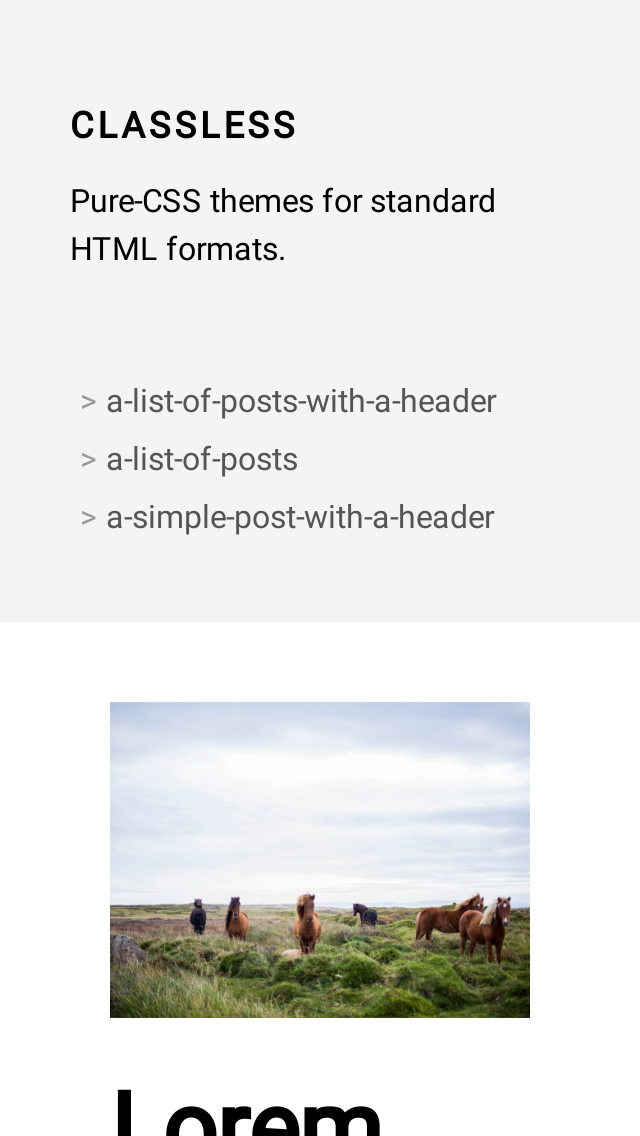
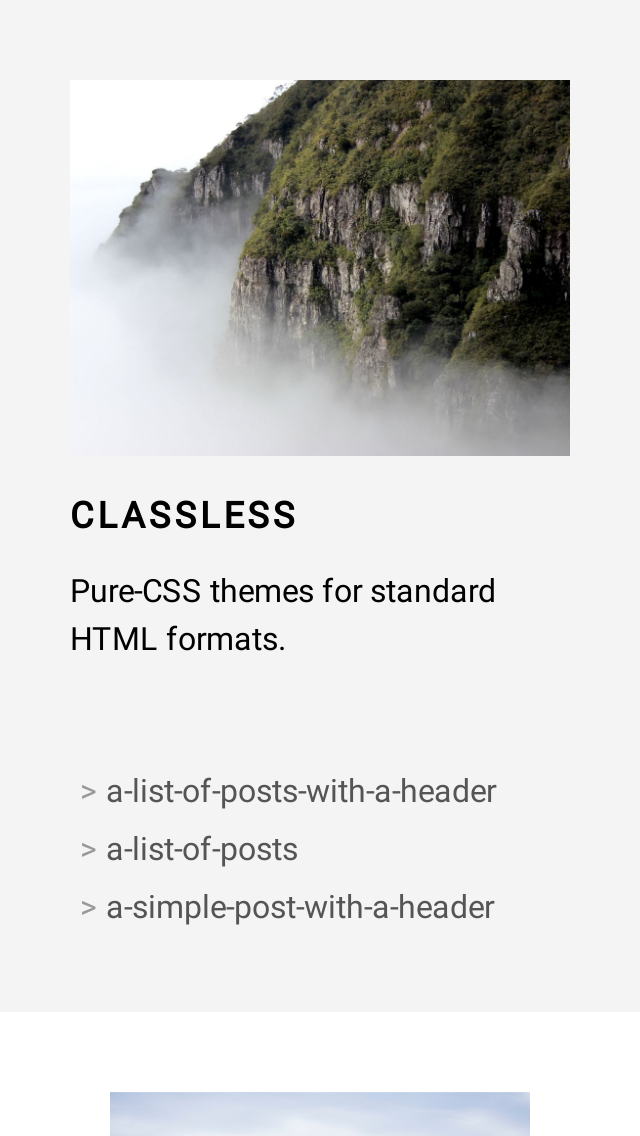
fix main height on creative-portfolio.

diff --git a/themes/creative-portfolio/src/theme.css b/themes/creative-portfolio/src/theme.css
@@ -63,25 +63,11 @@ body {
   align-content: start;
 }
 
-body > header {
-  grid-area: header;
-}
-
-body > nav {
-  grid-area: nav;
-}
-
-body > aside {
-  grid-area: aside;
-}
-
-body > footer {
-  grid-area: footer;
-}
-
-body > main {
-  grid-area: main;
-}
+body > header { grid-area: header; }
+body > nav { grid-area: nav; }
+body > aside { grid-area: aside; }
+body > footer { grid-area: footer; }
+body > main { grid-area: main; }
 
 article header aside {
   padding: 0 20px 15px;
@@ -173,7 +159,8 @@ body > main {
   height: 100%;
 }
   main > section {
-    height: 90%;
+    height: 83vh;
+    min-height: 500px;
     padding: 40px 15px 0;
   }
     main > section > ul {

diff --git a/themes/creative-portfolio/theme.css b/themes/creative-portfolio/theme.css
@@ -63,25 +63,11 @@ body {
   align-content: start;
 }
 
-body > header {
-  grid-area: header;
-}
-
-body > nav {
-  grid-area: nav;
-}
-
-body > aside {
-  grid-area: aside;
-}
-
-body > footer {
-  grid-area: footer;
-}
-
-body > main {
-  grid-area: main;
-}
+body > header { grid-area: header; }
+body > nav { grid-area: nav; }
+body > aside { grid-area: aside; }
+body > footer { grid-area: footer; }
+body > main { grid-area: main; }
 
 article header aside {
   padding: 0 20px 15px;
@@ -173,7 +159,8 @@ body > main {
   height: 100%;
 }
   main > section {
-    height: 90%;
+    height: 83vh;
+    min-height: 500px;
     padding: 40px 15px 0;
   }
     main > section > ul {
